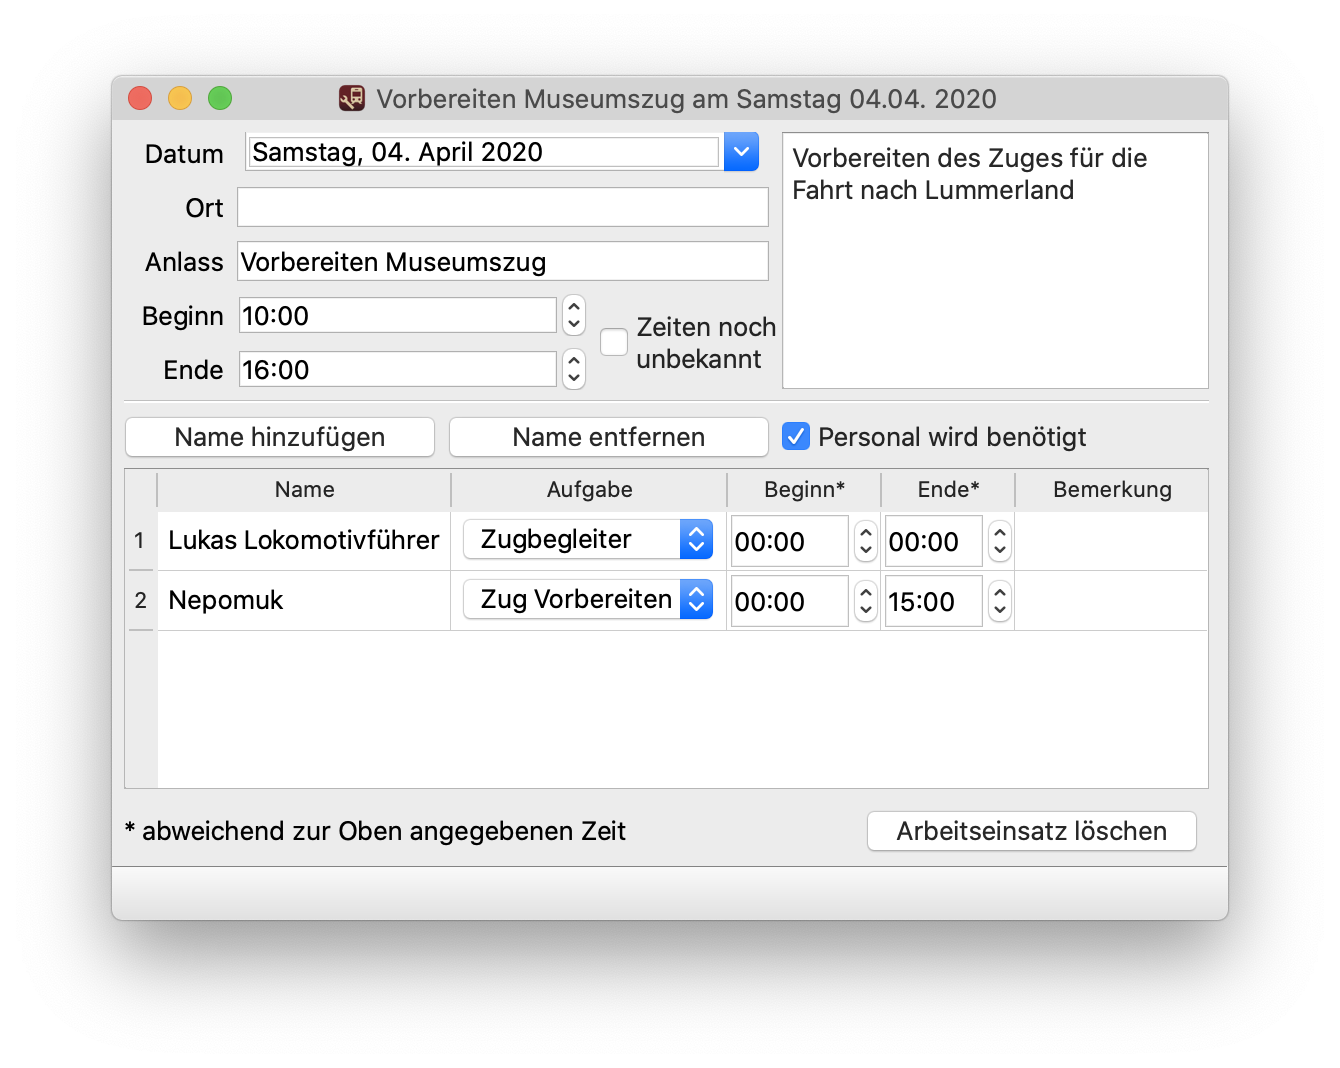
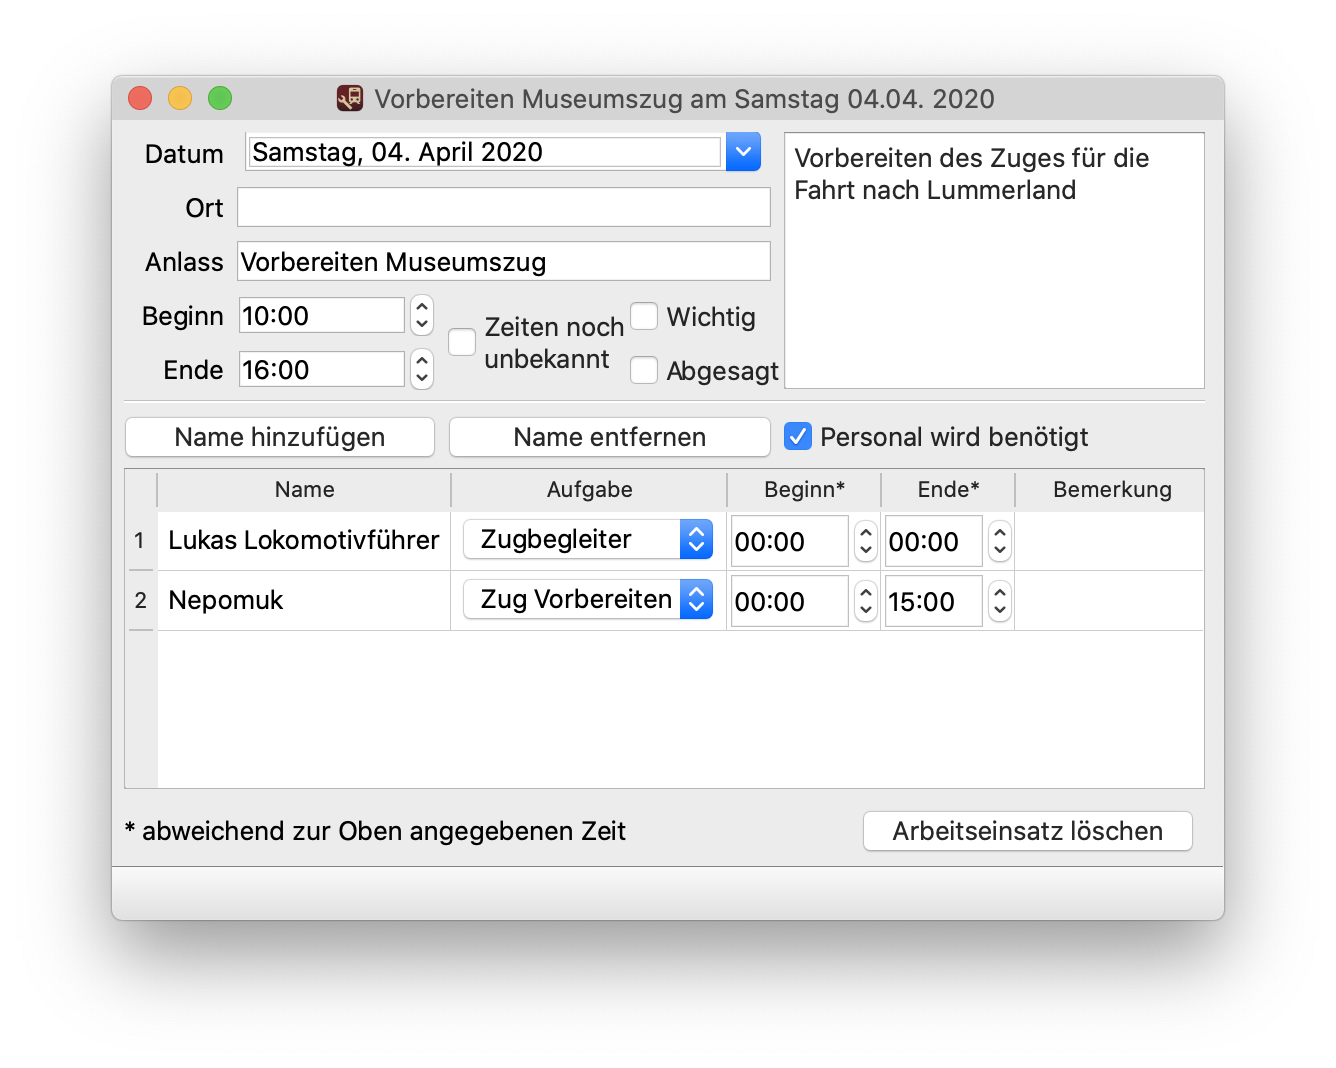
Dokumentation ergänzt

diff --git a/Dokumentation/src/epl/allgemein.tex b/Dokumentation/src/epl/allgemein.tex
@@ -1,6 +1,7 @@
 \chapter{Allgemeines}\label{epl:allg}
 Das EPL-Programmpaket dient dazu die Verwaltungstätigkeiten einer Museumseisenbahn zu verbessern.
-Dazu können mit dem Programm \Einsatz Fahrtage und Arbeitseinsätze verwalten werden, sowie die Einsatzzeiten der Mitglieder berechnet werden.
+Dazu können mit dem Programm \Einsatz Fahrtage und Arbeitseinsätze verwalten werden,
+sowie die Einsatzzeiten der Mitglieder erfasst und berechnet werden.
 Fahrtage unterschieden sich von Arbeitseinsätzen dadurch, dass das Personal direkt bestimmten Aufgabengebieten zugeordnet werden kann.
 Ebenso können Reservierungen eingetragen werden.
 Mit dem Programm \Personal kann eine Verwaltung der Mitglieder und Speicherung der entsprechenden Daten durchgeführt werden.
@@ -41,14 +42,36 @@ Danach kann ein anderer Benutzer die Datei wieder uneingeschränkt öffnen.
 
 
 \begin{hinweis}
-  Die oben beschriebene Datei sollte unter normalen Umständen  nicht manuell gelöscht werden, da dies zu Datenverlusten führen kann.
+  Die oben beschriebene Datei sollte unter normalen Umständen nicht manuell gelöscht werden, da dies zu Datenverlusten führen kann.
   Löschen Sie die Datei nur, wenn Sie sicherstellen können, dass keine weiteren Benutzer auf die Datei zugreifen.
 \end{hinweis}
 
 
+\begin{neu}
+\subsection{Passwort-Schutz}\label{epl:allg:datei:passwort}
+Es besteht die Möglichkeit die EPL-Datei mit einem Passwort-Schutz zu speichern.
+Durch diesen können nur berechtigte Personen auf die Daten zugreifen.
+Die Datei wird in diesem Fall verschlüsselt gespeichert.
+
+\paragraph{Schutz einrichten und aufheben}
+Der Schutz kann über den Eintrag \aktion{Eigenschaften} im Menü \aktion{Datei} geändert werden (Siehe auch \cref{fig:einsatz:kalender:upload}).
+Das bisherige Passwort eingeben (sofern vorhanden) und das neue Passwort zweimal eingeben, um Tippfehler zu vermeiden.
+Dann über den Knopf \button{Passwort ändern} die Änderung vornehmen.
+Um einen vorhandenen Passwortschutz zu entfernen,
+die beiden Felder für das neue Passwort frei lassen und mit dem Knopf bestätigen.
+
+
+\begin{hinweis}
+  Ohne das Passwort kann die Datei nicht mehr geöffnet werden und die Daten sind verloren.
+  Stellen Sie deshalb sicher,
+  dass Sie sich das Passwort merken können oder speichern es in einem Passwort-Manager.
+\end{hinweis}
+
+\end{neu}
+
 \section{Installation}\label{epl:allg:installation}
 \subsection{macOS}
-Laden Sie das bereitgestellte Programm herunter und entpacken Sie die \datei{.dmg}-Datei durch einen Doppelklick.
+Laden Sie die bereitgestellte Datei herunter und entpacken Sie die \datei{.dmg}-Datei durch einen Doppelklick.
 Ziehen Sie den Ordner \datei{EPL} zum Installieren in Ihren Programmordner.
 Alternativ können Sie die beiden Programm im Ordner \datei{EPL} auch einzeln in den Programmordner Ihres Systems bewegen.
 
@@ -70,7 +93,7 @@ Alternativ können Sie die beiden Programm im Ordner \datei{EPL} auch einzeln in
 
 \section{Über das Dokument}\label{epl:allg:sonstiges}
 Die Bilder in dieser Dokumentation stammen von Bildern der Entwicklerversionen des Programms für Version
-XXX
+1.7.0
 und aus früheren Versionen.
 Dadurch können Programmobjekte und Funktionen leicht von denen in der veröffentlichten Version abweichen.
 

diff --git a/Dokumentation/src/einsatzplaner/kalender.tex b/Dokumentation/src/einsatzplaner/kalender.tex
@@ -19,12 +19,14 @@ in verschiedenen Farben eingefärbt.
 
 
 
-\section{Anlegen von Aktivitäten}\label{einsatz:kalender:anlegen}
-\paragraph{Fahrtag}
+\section{Aktivitäten verwalten}
+\label{einsatz:kalender:anlegen}
+\label{einsatz:kalender:löschen}
+\paragraph{Fahrtag erstellen}
 Um einen neuen Fahrtag anzulegen, klicken Sie auf den Knopf \button{Neuer Fahrtag}.
 Es wird ein Fahrtag mit dem aktuellen Datum angelegt und das entsprechende Fenster geöffnet (siehe \cref{einsatz:fahrtag})
 
-\paragraph{Arbeitseinsatz}
+\paragraph{Arbeitseinsatz erstellen}
 Ein neuer Arbeitseinsatz kann mit Hilfe des Knopfes \button{Neuer Arbeitseinsatz} angelegt werden.
 Ein Arbeitseinsatz kann auch direkt im Kalender mit einen Klick auf \button{+} mit dem entsprechenden Datum erstellt werden.
 In beiden Fällen öffnet sich danach das Fenster für den Arbeitseinsatz
@@ -33,7 +35,7 @@ In beiden Fällen öffnet sich danach das Fenster für den Arbeitseinsatz
 
 
 
-\section{Löschen von Aktivitäten}\label{einsatz:kalender:löschen}
+\paragraph{Löschen von Aktivitäten}
 Um eine Aktivität zu löschen, wählen Sie diese in der Liste aus
 und klicken auf den Knopf \button{Listeneintrag löschen}.
 Nach einer Sicherheitsabfrage wird der Eintrag gelöscht und verschwindet dann auch aus dem Kalender.
@@ -126,9 +128,12 @@ Dieses Tool gibt ihnen die Möglichkeit die Listenansicht des Einsatzplans als P
 Dies kann manuell oder automatisch bei jedem Speichern geschehen.
 Zur Konfiguration befindet sich im Datei-Menü ein Punkt \aktion{Eigenschaften}.
 Durch diesen öffnet sich der Abschnitt in \cref{fig:einsatz:kalender:upload}.
+\begin{neu}
+Relevant ist hier der obere Teil.
+\end{neu}
 \begin{figure}[!h]
   \centering
-	\includegraphics[width=0.5\textwidth]{img/eigenschaften_upload}
+	\includegraphics[width=0.5\textwidth]{img/eigenschaften}
 	\caption{Des Fenster der Dateieigenschaften}
 	\label{fig:einsatz:kalender:upload}
 \end{figure}

diff --git a/Dokumentation/src/einsatzplaner/fahrtage.tex b/Dokumentation/src/einsatzplaner/fahrtage.tex
@@ -8,6 +8,11 @@
 \paragraph{Allgemein}
 Im oberen Bereich des Fensters können die grundlegenden Daten für einen Fahrtag eingegeben werden.
 Eine Markierung als \emph{wichtig} wird beim Export des Fahrtages durch eine optische Hervorhebung gekennzeichnet.
+\begin{neu}
+Ebenso kann die Veranstaltung abgesagt werden.
+In diesem Fall werden für die eingetragenen Personen keine Stunden angerechnet, sodass diese nicht entfernt werden müssen.
+Beim Export werden in diesem Fall nur noch die Rahmendaten und die Bemerkungen ausgegeben.
+\end{neu}
 
 Die Wagenreihung wirkt sich auf die Anzeige der Reservierungen aus und ist für die Personalplanung wichtig.
 Es stehen bereits einige häufige Kombinationen der Wagen zur Verfügung.
@@ -52,10 +57,15 @@ Auch hier gibt es wieder Ausnahmen, wenn einer der folgenden Begriffe in der Bem
 \end{itemize}
 Darüber hinaus können weitere Bemerkungen eingegeben werden, die auch durch Strichpunkte voneinander getrennt sein dürfen.
 
+\begin{neu}
 \begin{hinweis}
-  Wenn eine Person mehrfach eingetragen werden soll, muss sie für verschiedene Tätigkeiten (z.B.\ Tf und Zf) eingetragen werden.
-  Die Zeiten sollten dann für jede Tätigkeit angepasst werden, da diese sonst mehrfach angerechnet werden.
+  Seit Version 1.7 kann eine Person auch mehrfach für eine Aktivität eingetragen werden.
+  Zum Beispiel als Tf für das erste Zugpaar,
+  dann als Zub für das zweite Zugpaar und als Tf für das dritte Zugpaar.
+  Um eine mehrfache Anrechnung von Stunden zu vermeiden,
+  müssen die individuellen Zeiten der Person und der jeweiligen Aktivität manuell angepasst werden.
 \end{hinweis}
+\end{neu}
 
 
 

diff --git a/Dokumentation/src/einsatzplaner/personal.tex b/Dokumentation/src/einsatzplaner/personal.tex
@@ -15,9 +15,7 @@ In der Tabelle von \cref{fig:einsatz:personal:zeiten} wird eine Übersicht über
 Die Einfärbung erfolgt anhand der mindestens zu erbringenden Stunden.
 Rot bedeutet hierbei, dass die Person ihre Stunden noch nicht erbracht hat.
 Eine weiße Markierung bestätigt, dass die Mindeststunden erbracht wurden, oder keine solchen gefordert sind (z.B.\ bei passiven Mitglieder).
-\begin{neu}
 Minderjährige aktive Mitglieder müssen keine Mindeststunden erbringen.
-\end{neu}
 Für aktive Mitglieder gilt, dass sie in die Kategorie "`Aktiv mit Stunden"' fallen, sobald die Mindeststunden für "`Gesamt"' erreicht wurden.
 Die persönlichen Mindeststunden (z.B.\ für Lokführer)
 werden hierbei nicht berücksichtigt.
@@ -65,7 +63,8 @@ Das Fenster mit geöffneter Einzelansicht ist in \cref{fig:einsatz:personal:einz
 In der Liste sind alle Personen gelistet, die nach der Kopfzeile des Fenster angezeigt werden sollen.
 Die farbliche Hervorhebung erfolgt analog zur Gesamtübersicht.
 Im oberen Teil können der Name und die Mitgliedsnummer der Person verändert werden.
-Alternativ zu manuellen Eingabe der Nummer, kann auch eine solche automatisch zugewiesen werden.
+Alternativ zur manuellen Eingabe der Nummer,
+kann auch eine solche automatisch zugewiesen werden.
 Dabei wird die nächst größere Zahl der aktuell höchsten Mitgliedsnummer verwendet.
 Naturgemäß kann eine Nummer nicht doppelt vergeben werden.
 

diff --git a/Dokumentation/src/personalplaner/personal.tex b/Dokumentation/src/personalplaner/personal.tex
@@ -12,13 +12,18 @@ Diese Daten können dann z.B.\ für Serienbriefe genutzt werden.
 	\label{fig:personal:mitglieder}
 \end{figure}
 
-In der Tabelle werden alle gespeicherten Daten der ausgewählten Mitglieder angezeigt.
+\begin{neu}
+Die Einzelansicht einer Person kann über einen Doppelklick auf eine Zelle der entsprechenden Zeile geöffnet werden.
+
+Über eine ent- bzw.\ zusammenfaltbare Liste auf der linken Seite des Fensters kann eingestellt werden,
+welche Daten in der Tabelle angezeigt werden.
+\end{neu}
 Im unteren Bereich des Fensters wird eine kurze Statistik
 der aktuellen und ausgetretenen Mitglieder angezeigt.
 
 \paragraph{Export}
 Die Tabelle kann über die Knöpfe \button{Tabelle drucken} und \button{Tabelle als PDF speichern} ausgegeben werden.
-Über das Menü \aktion{Exportieren} steht noch ein Export als CSV-Datei zur Verfügung,
+Über das Menü \aktion{Exportieren} steht noch ein Export als CSV-Datei zur Verfügung (hier werden alle gespeicherten Daten exportiert),
 sodass die Daten in anderen Programmen verarbeitet werden können.
 Ebenso besteht die Möglichkeit über den Eintrag \aktion{Stammdatenblätter} die Daten eines Mitglieds bzw.\ aller angezeigten Personen auszugeben.
 Hierbei wird für jede Person eine Seite erzeugt, die in einem gemeinsamen Dokument gespeichert werden.

diff --git a/Dokumentation/src/epl/sonstiges.tex b/Dokumentation/src/epl/sonstiges.tex
@@ -1,11 +1,19 @@
 \chapter{Informationen zu Aktualisierungen}\label{epl:update}
-\section{Update von Version 1.6 auf XXX}
-\label{epl:update:1.6-XXX}
-Mit Version XXX wurde das frühere Programm \Einsatz in die beiden Programme \Einsatz und \Personal geteilt.
+\begin{neu}
+\section{Update von Version 1.6 auf 1.7}
+\label{epl:update:1.6-1.7}
+Mit Version 1.7.0 wurde das frühere Programm \Einsatz in die beiden Programme \Einsatz und \Personal geteilt.
 Das neue Programm \Personal dient ausschließlich der Verwaltung der Vereinsmitglieder.
 Die Mitgliederdaten können im Programm \Einsatz nur noch begrenzt geändert werden, um die Übersichtlichkeit zu verbessern.
 
+Ebenso wurde ein optionaler Passwortschutz eingeführt.
+Siehe dazu \cref{epl:allg:datei:passwort}.
 
+Darüber hinaus können verschiedene weitere Mitgliedsdaten gespeichert werden und Aktivitäten abgesagt werden.
+
+Personen können ab sofort auch mehrfach bei einer Aktivität eingetragen werden,
+unabhängig von der Kategorie.
+\end{neu}
 
 \section{Update von Version 1.5 auf 1.6}
 \label{epl:update:1.5-1.6}

diff --git a/Dokumentation/src/version/v1-6.tex b/Dokumentation/src/version/v1-6.tex
@@ -91,7 +91,6 @@ Veröffentlicht am 06.08.2020
   Behebt einen Fehler, durch den die eingegebenen Verbindungsdaten zum EPL-Server nicht überprüft wurden.
 \end{itemize}
 
-\begin{neu}
 \subsection{Version 1.6.2}
 \label{version:1:6:2}
 Veröffentlicht am 16.10.2020
@@ -115,4 +114,3 @@ Veröffentlicht am 16.10.2020
   \item Zeilenumbrüche werden wieder korrekt ausgegeben und angezeigt.
   \item Diverse Verbesserungen und Optimierungen
 \end{itemize}
-\end{neu}

diff --git a/Dokumentation/src/epl/einstellungen.tex b/Dokumentation/src/epl/einstellungen.tex
@@ -38,7 +38,8 @@ Unabhängig von diesen Einstellungen können Sie die Ansicht jederzeit über die
 
 \begin{hinweis}
   Diese Funktion wird nur im Programm \Einsatz verwendet.
-  Wenn die die Datei in \Personal speichern, wird keine Datei auf den Server geladen!
+  Wenn Sie die Datei in \Personal speichern,
+  wird keine Datei auf den Server geladen!
 \end{hinweis}
 
 

diff --git a/Dokumentation/src/vorne_u_hinten/aenderungen.tex b/Dokumentation/src/vorne_u_hinten/aenderungen.tex
@@ -19,6 +19,7 @@
     Beachten Sie die Hinwiese zur Installation in \cref{epl:allg:installation}.
     \\
   \hline
-  XX.XX.2021 &
+  XX.04.2021 &
+    Version 1.7.0 eingefügt.\newline
     Dokumentation überarbeitet, da das Programm in \Einsatz und \Personal aufgeteilt wurde.
 \end{tabularx}

diff --git a/Dokumentation/src/anleitung.tex b/Dokumentation/src/anleitung.tex
@@ -43,7 +43,7 @@
 
 \subject{\centering\includegraphics[width=0.25\textwidth]{../../Icon/EPL.png}}
 \title{Anleitung EPL-Programmpaket}
-\subtitle{Version 1.6.2}
+\subtitle{Version 1.7.0}
 \author{Philipp Schepper}
 \date{Stand: \today}
 \publishers{\Huge{\textsf{Arbeitsdatei}}}
